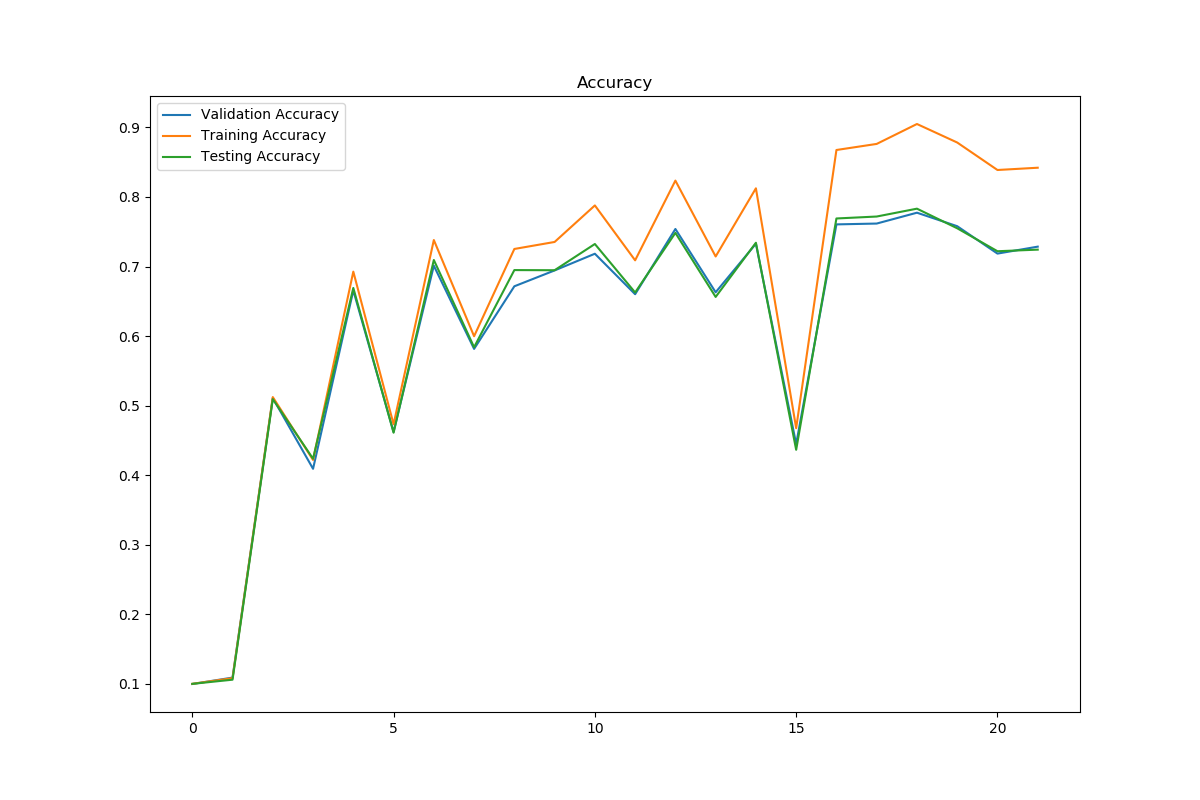
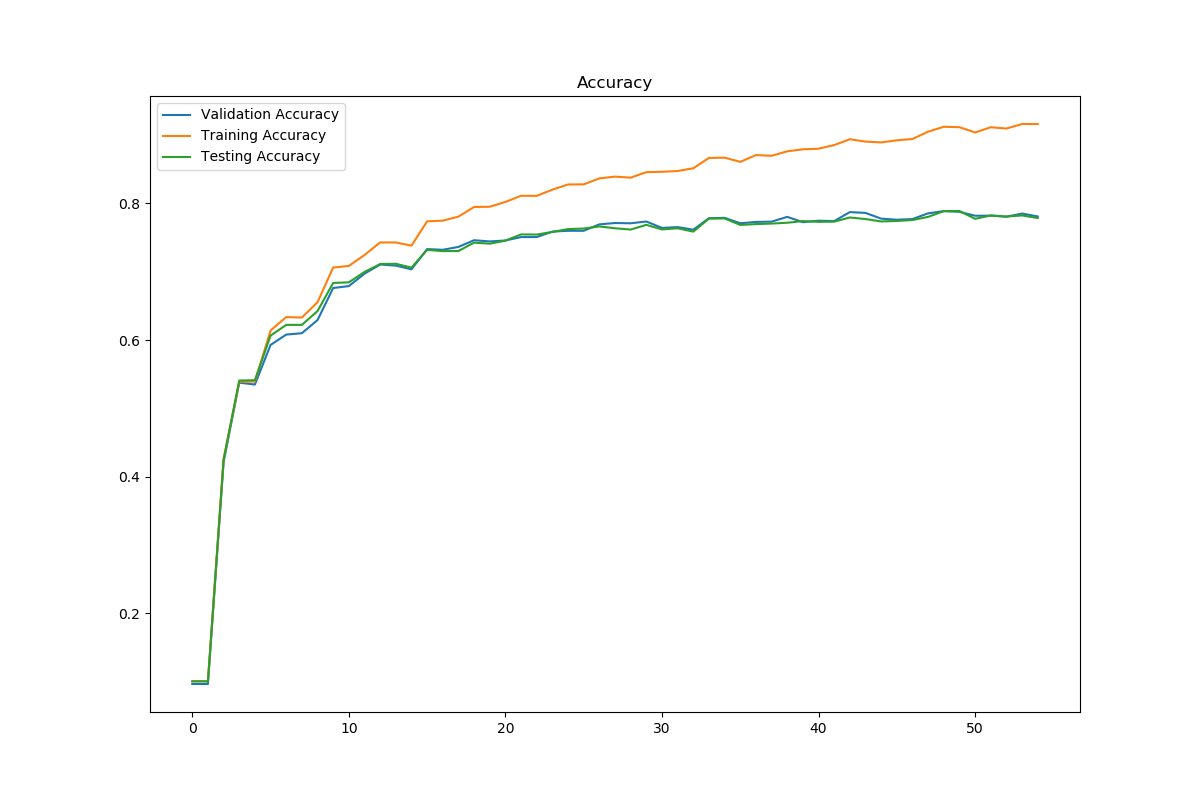
Model 2 tuned and runned

diff --git a/Assignment_3/code/task2_model_2.py b/Assignment_3/code/task2_model_2.py
@@ -11,25 +11,6 @@ class Task2Model2(nn.Module):
         self.feature_extractor = nn.Sequential(
             nn.Conv2d(                          # Conv 0
                 in_channels=image_channels,
-                out_channels=16,
-                kernel_size=3,
-                stride=1,
-                padding=1
-            ),
-            nn.BatchNorm2d(16),
-            nn.ReLU(),
-            nn.Conv2d(                          # Conv 1
-                in_channels=16,
-                out_channels=16,
-                kernel_size=3,
-                stride=1,
-                padding=1
-            ),
-            nn.Dropout2d(),
-            nn.BatchNorm2d(16),
-            nn.ReLU(),
-            nn.Conv2d(                          # Conv 2
-                in_channels=16,
                 out_channels=32,
                 kernel_size=3,
                 stride=1,
@@ -37,7 +18,7 @@ class Task2Model2(nn.Module):
             ),
             nn.BatchNorm2d(32),
             nn.ReLU(),
-            nn.Conv2d(                          # Conv 3
+            nn.Conv2d(                          # Conv 1
                 in_channels=32,
                 out_channels=32,
                 kernel_size=3,
@@ -47,7 +28,8 @@ class Task2Model2(nn.Module):
             nn.Dropout2d(),
             nn.BatchNorm2d(32),
             nn.ReLU(),
-            nn.Conv2d(                          # Conv 4
+            nn.MaxPool2d(2,2),
+            nn.Conv2d(                          # Conv 2
                 in_channels=32,
                 out_channels=64,
                 kernel_size=3,
@@ -56,18 +38,39 @@ class Task2Model2(nn.Module):
             ),
             nn.BatchNorm2d(64),
             nn.ReLU(),
-            nn.Conv2d(                          # Conv 5
+            nn.Conv2d(                          # Conv 3
                 in_channels=64,
                 out_channels=64,
                 kernel_size=3,
                 stride=1,
                 padding=1
             ),
+            nn.Dropout2d(),
             nn.BatchNorm2d(64),
+            nn.MaxPool2d(2,2),
             nn.ReLU(),
+            nn.Conv2d(                          # Conv 4
+                in_channels=64,
+                out_channels=128,
+                kernel_size=3,
+                stride=1,
+                padding=1
+            ),
+            nn.BatchNorm2d(128),
+            nn.ReLU(),
+            nn.Conv2d(                          # Conv 5
+                in_channels=128,
+                out_channels=128,
+                kernel_size=3,
+                stride=1,
+                padding=1
+            ),
+            nn.BatchNorm2d(128),
+            nn.ReLU(),
+            nn.MaxPool2d(2,2),
                 )
             
-        self.num_output_features = 64*32*32 #channels*width*height
+        self.num_output_features = 128*4*4 #channels*width*height
 
         # Classifier layers
         self.classifier = nn.Sequential(
